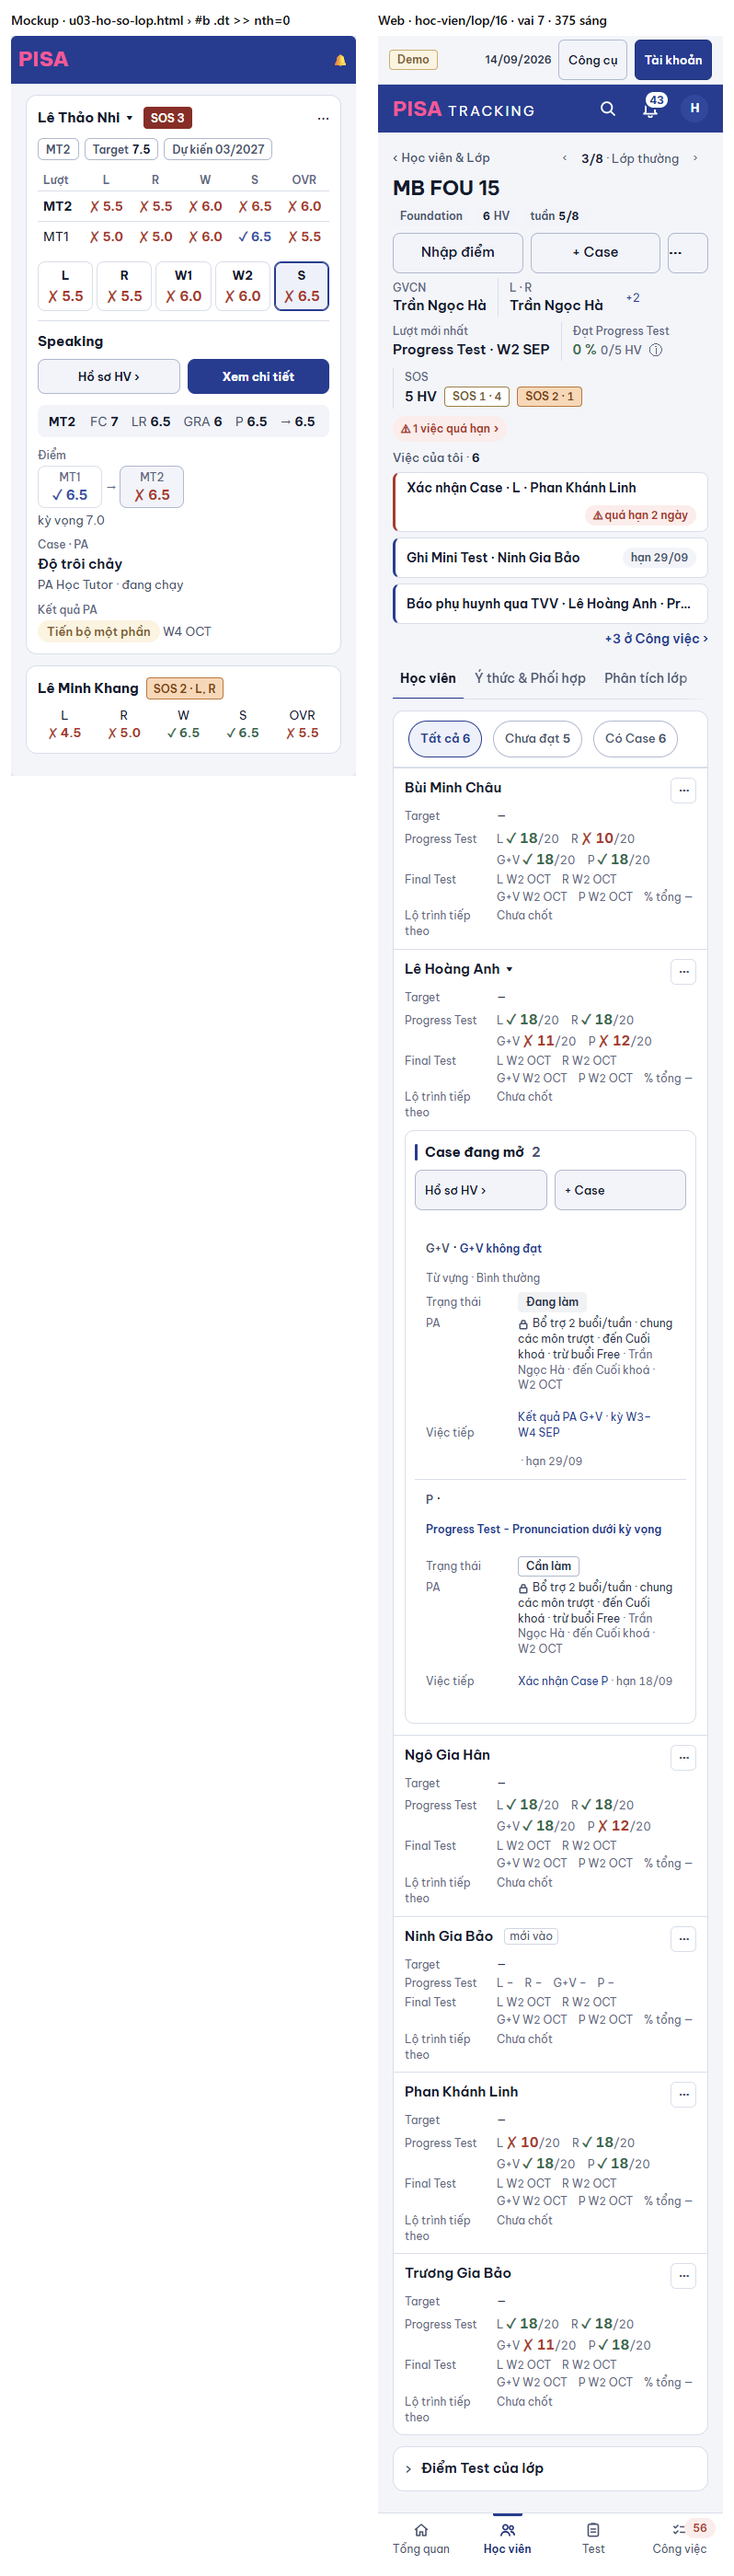
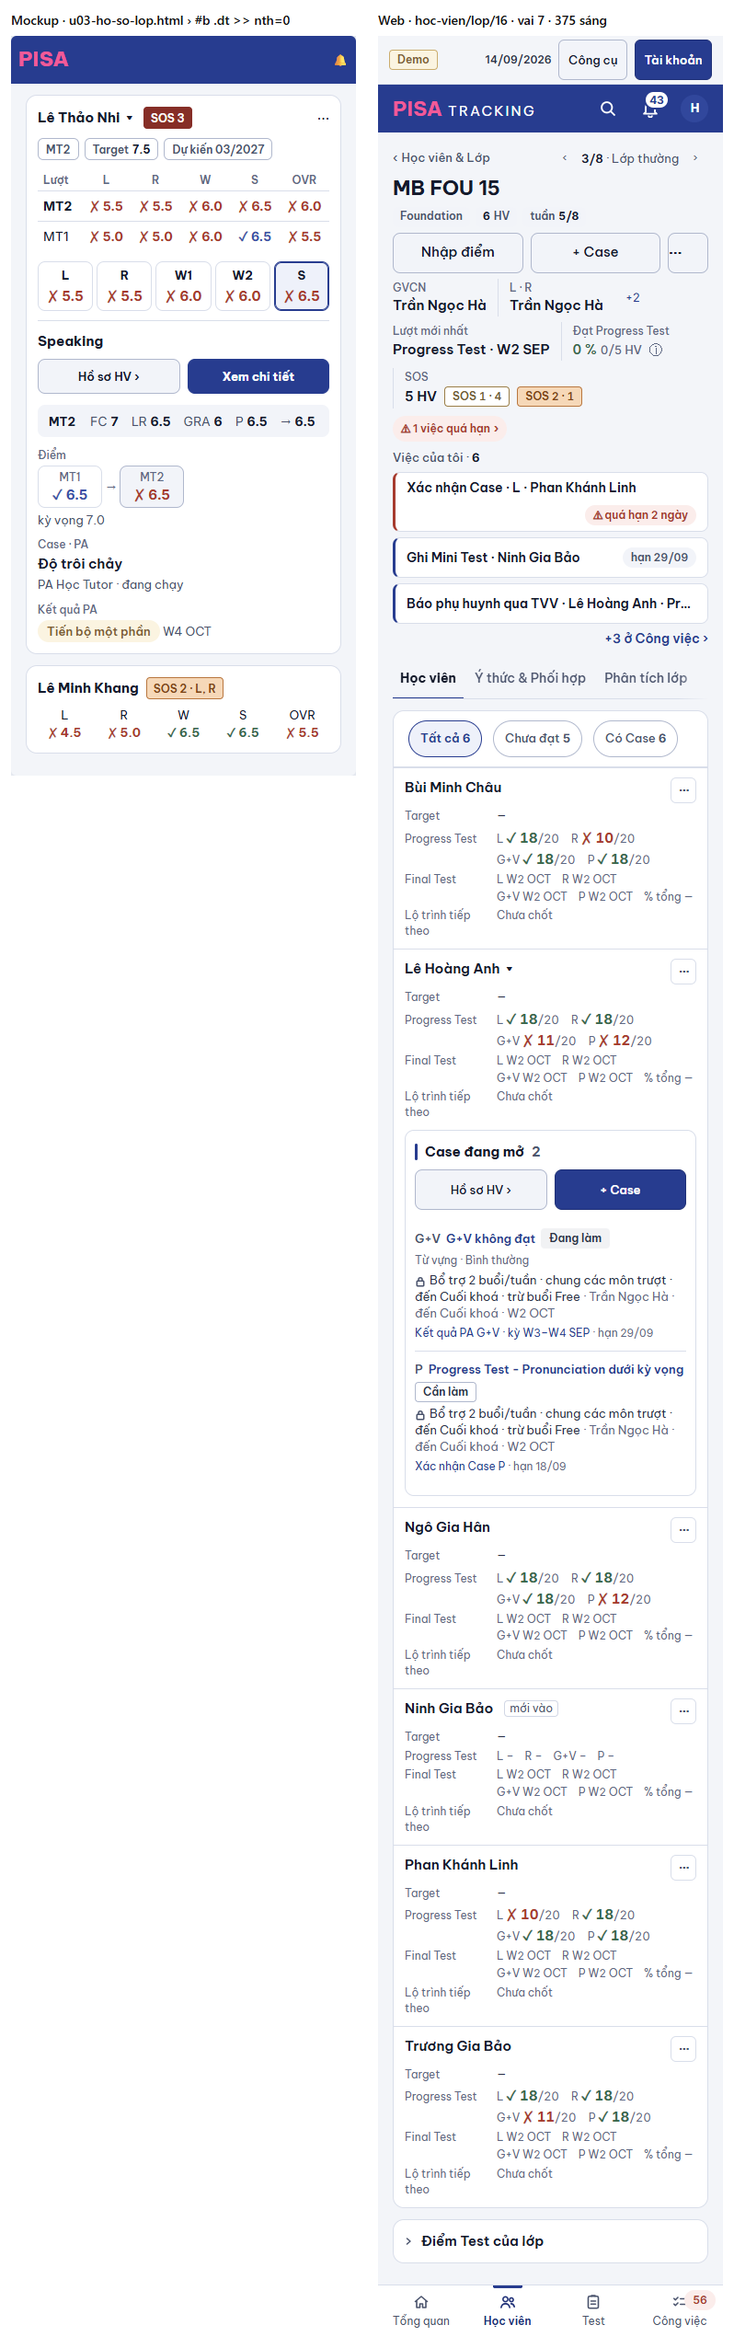
#900 375: dòng Case xếp dọc full rộng, bỏ dấu treo, nút Hồ sơ HV › / + Case như B1

diff --git a/web/src/modules/classes/BangCanHoTro.tsx b/web/src/modules/classes/BangCanHoTro.tsx
@@ -1,6 +1,5 @@
 import { NhanTrangThai } from '../../ui/ui.tsx';
 import { ViecTiep } from '../../ui/ViecTiep.tsx';
-import { TheDong } from '../../ui/TheDong.tsx';
 import { KhoaQuyChe, TenCase } from '../cases/SkillBoard.tsx';
 import { viecTiepCuaEm, type HangKyNang, type ViecTiepCase } from '@shared/domain/index.ts';
 import { dich, t } from '@shared/i18n/index.ts';
@@ -32,7 +31,7 @@ export const LUOI_DOC = 'md:grid md:grid-cols-[3.5rem_minmax(0,1.5fr)_minmax(0,1
 /** Một dòng Case trong hàng kỹ năng: Kỹ năng (chỉ dòng đầu) · Case · Phương án đang làm · Việc tiếp + hạn. OV-12d: dùng lại ở hồ sơ MT. */
 export function DongCase({ h, c, dau, ct, homNay, onMo, the = false, chiDoc = false }: {
   h: HangKyNang<CaseCua>; c: CaseCua; dau: boolean; ct: string | null; homNay: string; chiDoc?: boolean;
-  /** Điện thoại (D2): mỗi Case của hàng kỹ năng là một `TheDong` (mockup M4 "trên điện thoại"). */
+  /** Điện thoại: mỗi Case xếp dọc full rộng (PTA #900, thẻ con B1 U03). */
   the?: boolean;
   onMo: (viec?: 'ghi-ket-qua' | 'xac-nhan' | 'xac-nhan-pa', paId?: number) => void;
 }) {
@@ -54,24 +53,20 @@ export function DongCase({ h, c, dau, ct, homNay, onMo, the = false, chiDoc = fa
   const cauViec = viec ? <ViecTiep v={viec} onBam={() => onMo(loai, d?.paId)} /> : <span className="text-slate-500">—</span>;
   const lap = c.lapTu ? <span className="text-slate-400">{t('lặp từ MT{n}', { n: c.lapTu })}</span> : null;
   if (the) {
+    /* 375 (PTA #900, theo thẻ con B1 U03): xếp dọc full rộng — kỹ năng · tên Case + trạng thái một dòng, rồi PA, rồi việc tiếp · hạn. */
     return (
-      <TheDong
-        dau={(
-          <span className="block min-w-0">
-            <span className="text-xs font-semibold text-slate-300" title={h.tenDu}>{h.nhan}</span>{' · '}
-            <button type="button" className="link cursor-pointer border-0 bg-transparent p-0 text-left text-xs font-semibold" title={c.tieuDe}
-              onClick={() => onMo()}><TenCase c={{ title: c.tieuDe, tenSos: c.tenSos }} /></button>
-            {(c.nguyenNhan || c.moTu) && <span className="block text-[12px] text-slate-500">{[c.nguyenNhan && dich(c.nguyenNhan), c.moTu && dich(c.moTu)].filter(Boolean).join(' · ')}</span>}
-          </span>
-        )}
-        dong={[
-          { nhan: t('Trạng thái'), noiDung: (
-            <span className="flex flex-wrap items-center gap-x-1.5"><NhanTrangThai t={c.trangThai.t} title={dich(c.trangThai.chu)} />
-              {c.banGiaoTu && <span className="text-slate-500" title={t('Case bàn giao')}>{t('từ {lop}', { lop: c.banGiaoTu })}</span>}{lap}</span>
-          ) },
-          { nhan: 'PA', noiDung: <span className="text-[12px]">{cacPa}</span> },
-          ...(chiDoc ? [] : [{ nhan: t('Việc tiếp'), noiDung: cauViec }]),
-        ]} />
+      <div className="grid gap-1 py-2.5" data-case-id={c.id}>
+        <div className="flex flex-wrap items-center gap-x-1.5 gap-y-1 text-[13px]">
+          <span className="font-semibold text-slate-300" title={h.tenDu}>{h.nhan}</span>
+          <button type="button" className="link min-w-0 cursor-pointer border-0 bg-transparent p-0 text-left font-semibold" title={c.tieuDe}
+            onClick={() => onMo()}><TenCase c={{ title: c.tieuDe, tenSos: c.tenSos }} /></button>
+          <NhanTrangThai t={c.trangThai.t} title={dich(c.trangThai.chu)} />
+          {c.banGiaoTu && <span className="text-xs text-slate-500" title={t('Case bàn giao')}>{t('từ {lop}', { lop: c.banGiaoTu })}</span>}{lap}
+        </div>
+        {(c.nguyenNhan || c.moTu) && <span className="text-[12px] text-slate-500">{[c.nguyenNhan && dich(c.nguyenNhan), c.moTu && dich(c.moTu)].filter(Boolean).join(' · ')}</span>}
+        {dangLam.length > 0 && <span className="text-[13px] leading-snug">{cacPa}</span>}
+        {!chiDoc && viec && <span className="text-[13px]">{cauViec}</span>}
+      </div>
     );
   }
   return (

diff --git a/server/src/tests/prHvl.tests.ts b/server/src/tests/prHvl.tests.ts
@@ -582,9 +582,8 @@ export async function runPrHvlTests(t: YThucTestKit) {
     const td = web('ui/TheDong.tsx');
     assert(/export function TheDong/.test(td) && /export function useDienThoai/.test(td) && /max-width: 639px/.test(td) && /tabular-nums/.test(td), 'TheDong.tsx');
     /* RA-UI-8: bảng FT hồ sơ lớp (`BangHoSoLop`) ở 375 = thẻ của `Bang` (không TheDong) — không còn trong danh sách này. */
-    for (const f of ['modules/classes/BangDiemLopThuong.tsx', 'modules/classes/BangCanHoTro.tsx']) {   // UI-HV-LOP: BangHocVienLop không còn bảng
-      assert(/<TheDong\b/.test(web(f)), `${f} chưa dùng TheDong`);
-    }
+    /* #900: dòng Case (BangCanHoTro) ở 375 xếp dọc full rộng (PTA, thẻ con B1 U03) — không lưới nhãn | giá trị của TheDong. */
+    assert(/<TheDong\b/.test(web('modules/classes/BangDiemLopThuong.tsx')), 'BangDiemLopThuong chưa dùng TheDong');
     /* UI-HV-LOP (Q-7): Học viên & Lớp ở điện thoại = mỗi em một thẻ (`TheHvGon`), không còn thẻ lớp gập. */
     assert(/useDienThoai\(\)/.test(web('modules/students/StudentsPage.tsx')) && /<TheHvGon\b/.test(web('modules/students/StudentsPage.tsx')), 'StudentsPage phải có nhánh thẻ ở điện thoại');
     assert(/<Bang /.test(web('modules/classes/BangHoSoLop.tsx')) && /sticky-col/.test(web('modules/classes/BangDiemLopThuong.tsx')), 'cột tên dính (640–1023 px) — Bang dính cột tên');

diff --git a/web/src/modules/classes/BangDiemLopThuong.tsx b/web/src/modules/classes/BangDiemLopThuong.tsx
@@ -292,14 +292,14 @@ function MoRongThuong({ s, chot, ct, ds, homNay, the, chiDoc, coTheBaoCase, onTh
 }) {
   const e = chot.data?.em.find((x) => x.id === s.id);
   const hang = e ? locCanHoTro({ ct, em: [e] }).em[0]?.hang ?? [] : [];
-  const NUT = 'btn h-[30px] px-2.5 text-[13px] max-sm:h-11 max-sm:flex-1';
+  const NUT = 'btn h-[30px] justify-center px-2.5 text-[13px] max-sm:h-11 max-sm:flex-1';
   return (
     <div className={KHOI} style={{ borderColor: 'var(--line)' }}>
       <div className="flex flex-wrap items-center gap-2">
         <h4 className={MUC_H}>{t('Case đang mở')}{e && <span className="font-bold tabular-nums text-dim">{e.cases.length}</span>}</h4>
         <span className="ml-auto flex gap-2 max-sm:ml-0 max-sm:w-full">
           <Link className={`${NUT} no-underline`} to={duongHoSoHocVien(s.id)} state={{ ds }}>{t('Hồ sơ HV ›')}</Link>
-          {coTheBaoCase && <button type="button" className={NUT} onClick={onThemCase}>+ Case</button>}
+          {coTheBaoCase && <button type="button" className={`${NUT} btn-primary`} onClick={onThemCase}>+ Case</button>}
         </span>
       </div>
       {chot.error ? (
